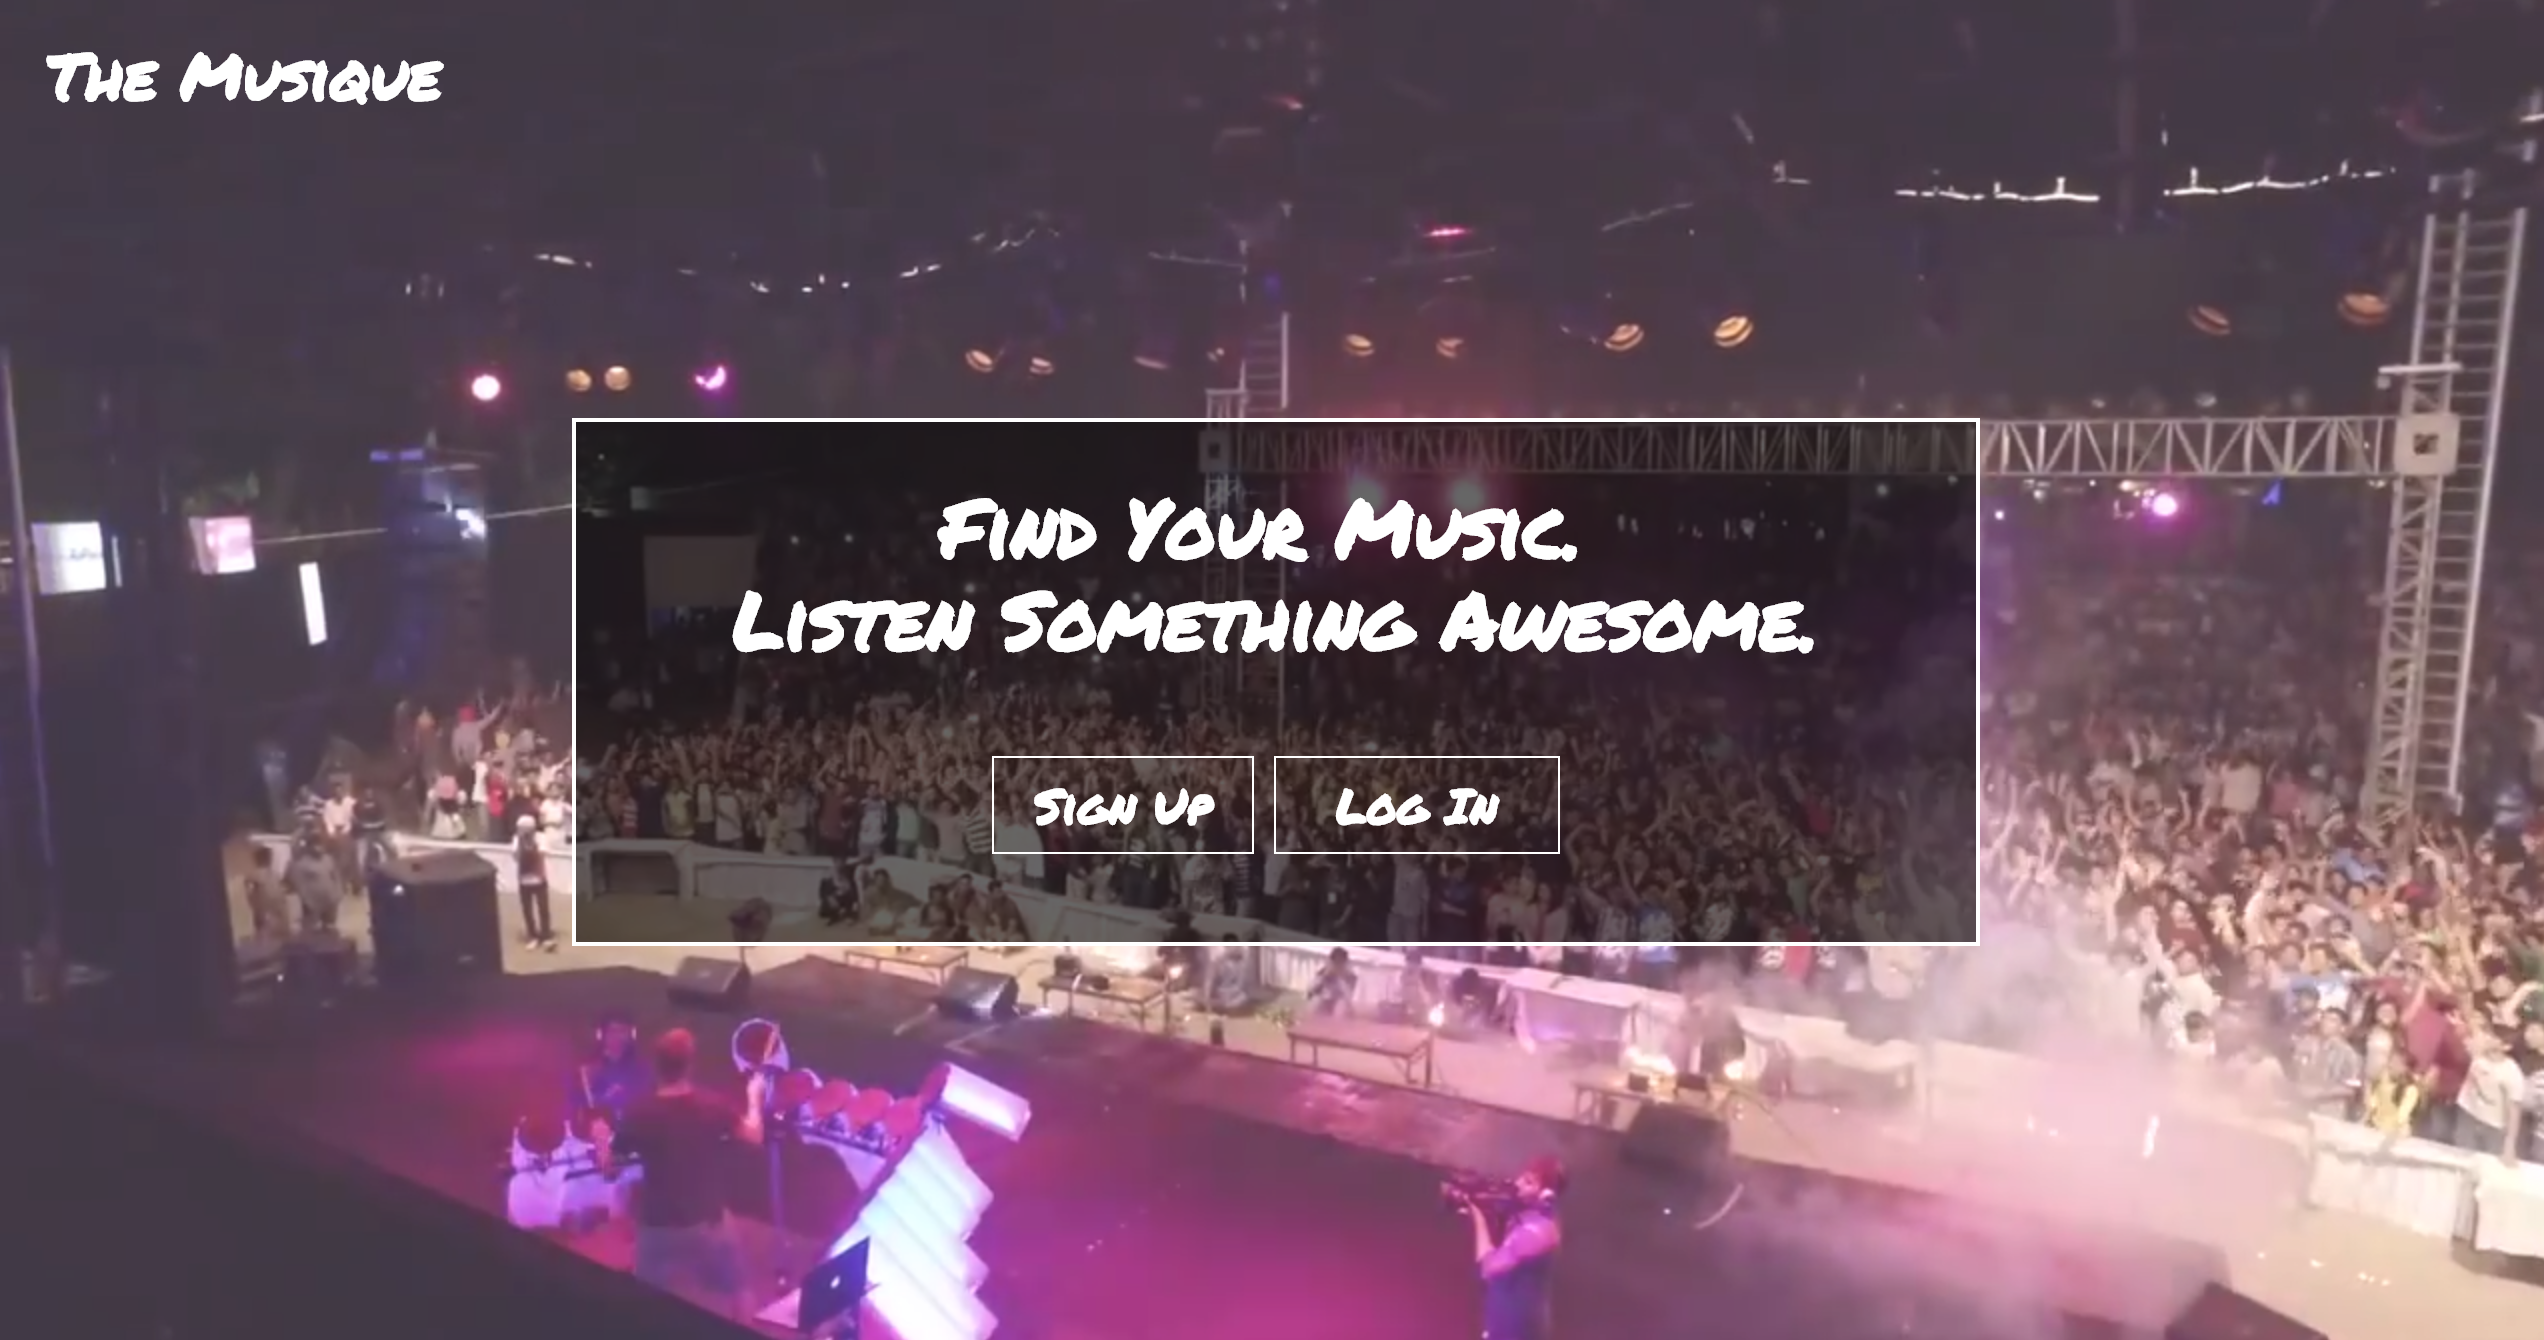
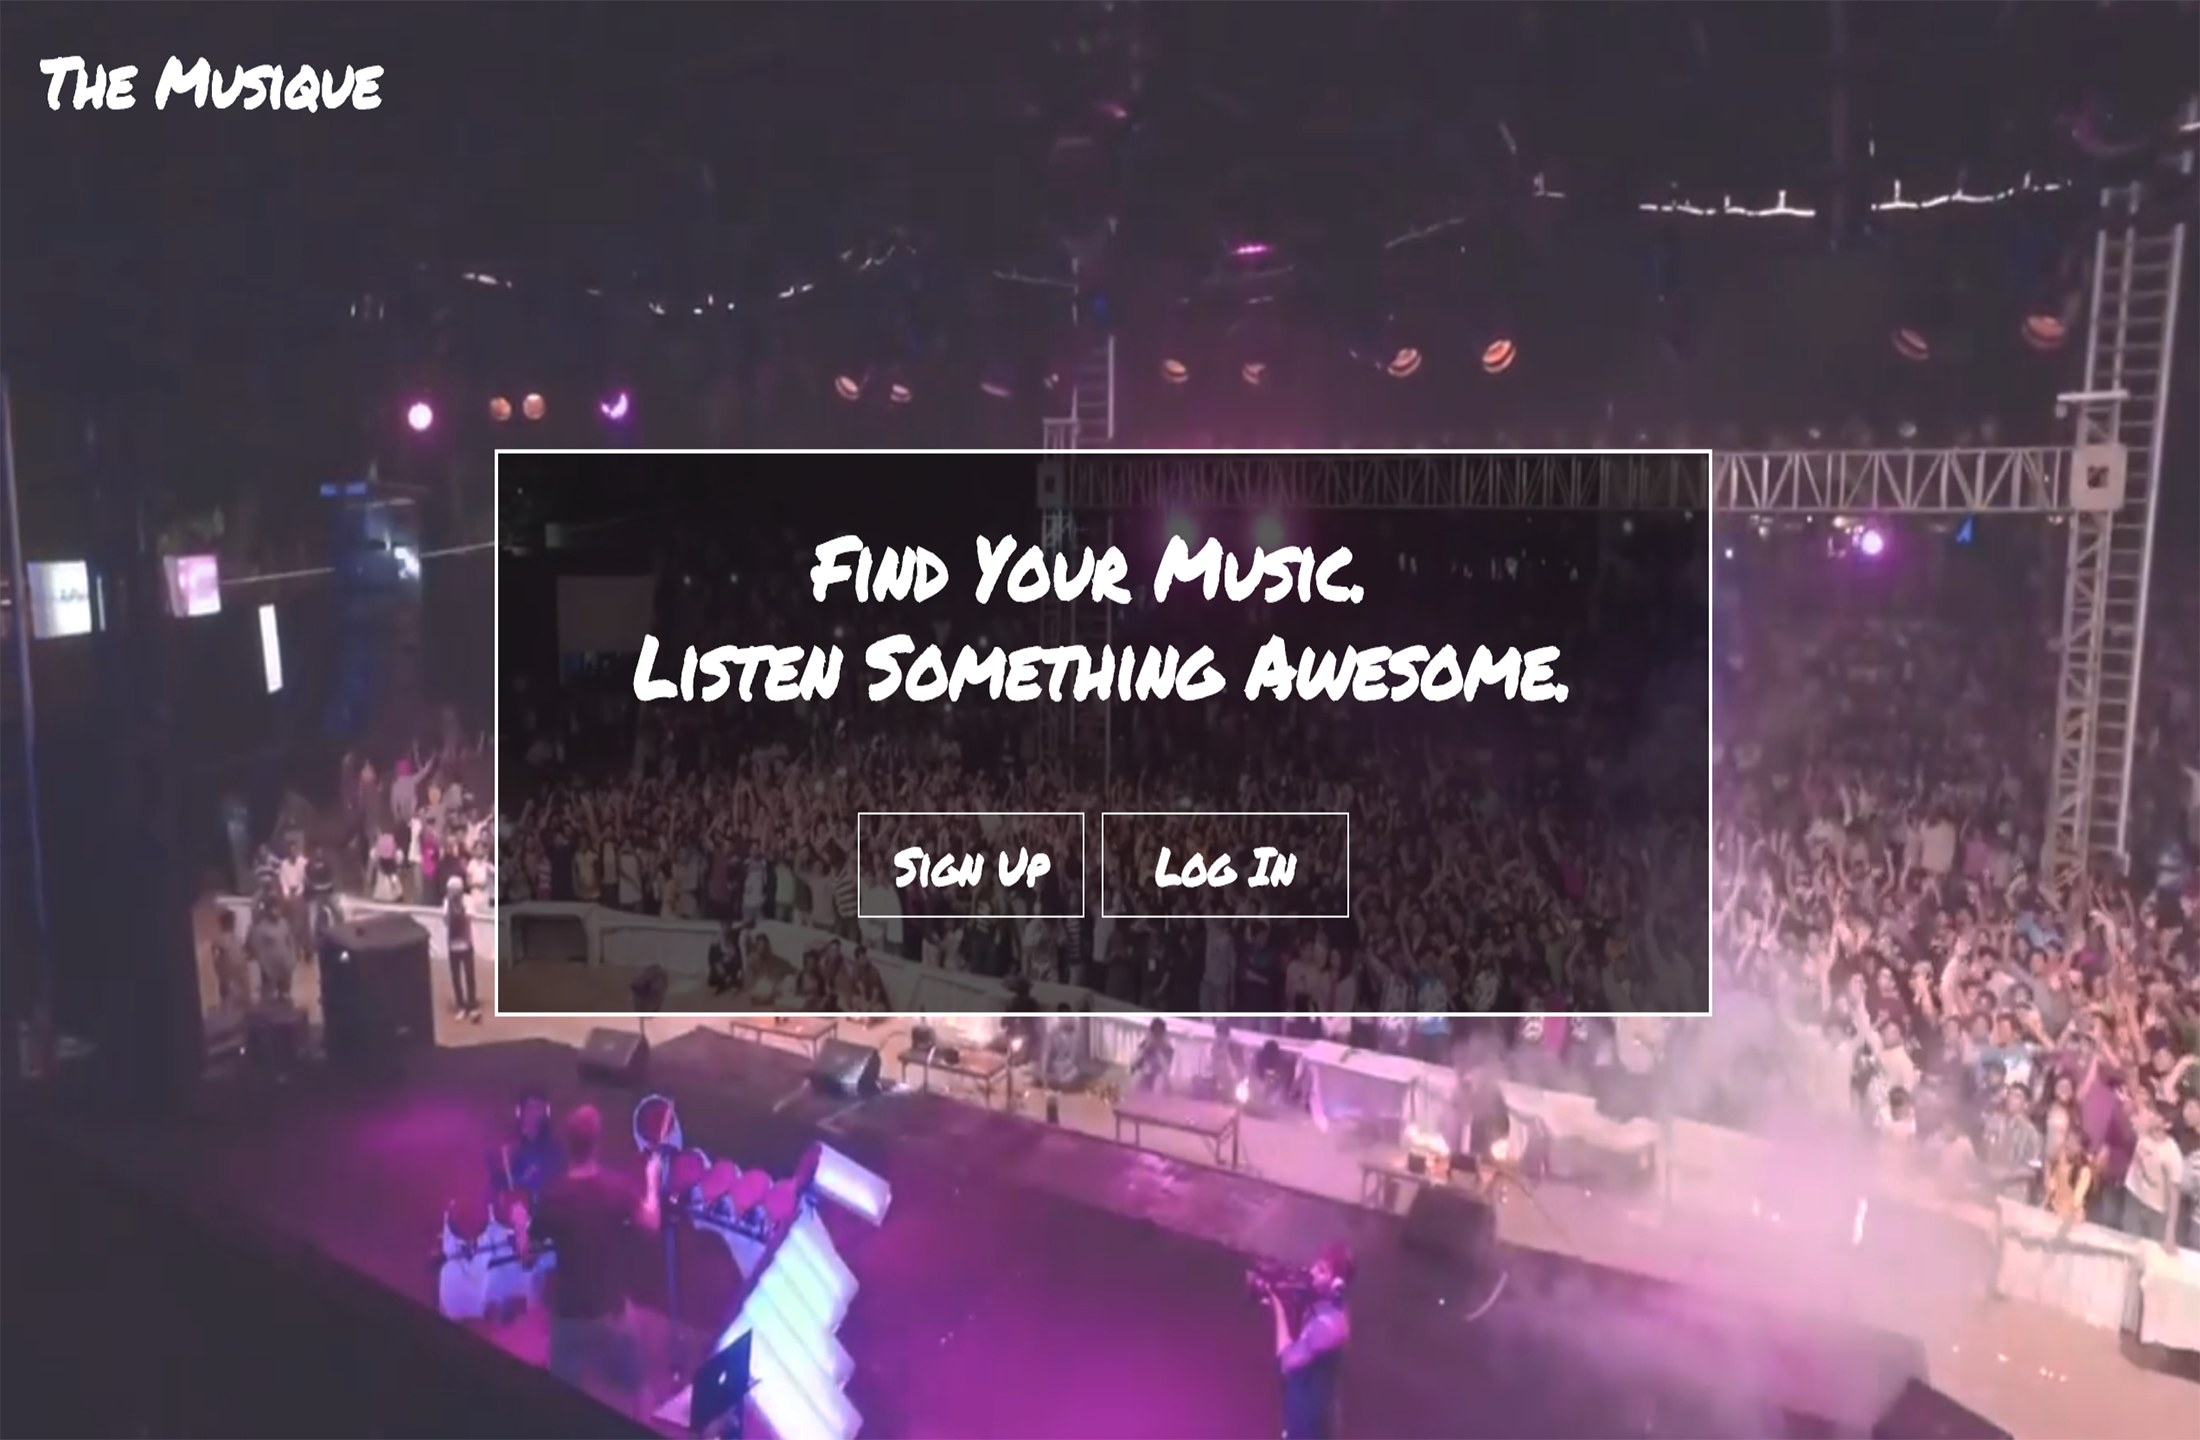
stylistic change

diff --git a/public/css/style.css b/public/css/style.css
@@ -368,13 +368,9 @@ p a:link {
   color: white;
 }
 
-/*#index-background {*/
-/*  background: url(../../image/index.jpg) no-repeat fixed;*/ /*image from https://unsplash.com/ - commercial use okay*/
-/*  -webkit-background-size: cover;
-  -moz-background-size: cover;
-  -o-background-size: cover;
-  position: absolute;
-}*/
+#index-background {
+  margin-left: 15px;
+}
 
 .logo, #favorites-container h1, #search-results-container h1 {
   font-family: 'Permanent Marker', cursive;
